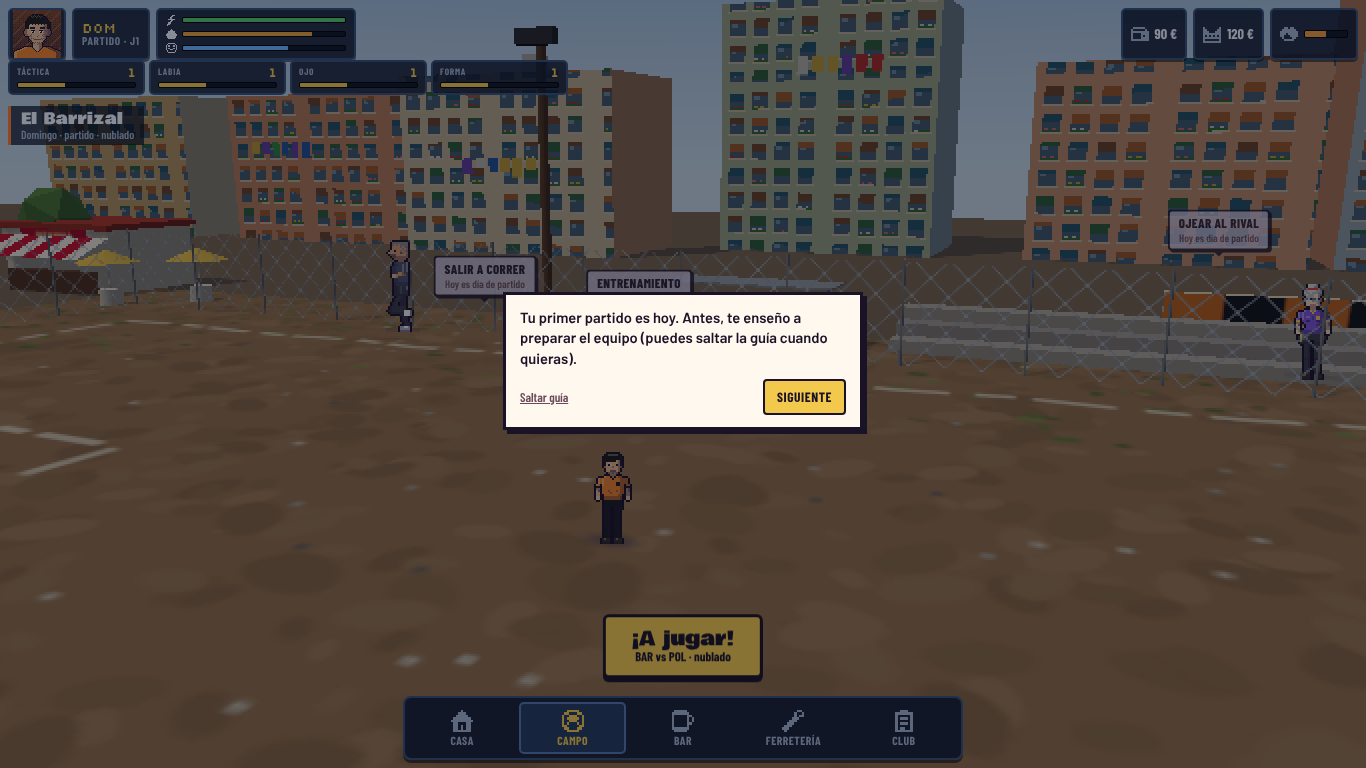
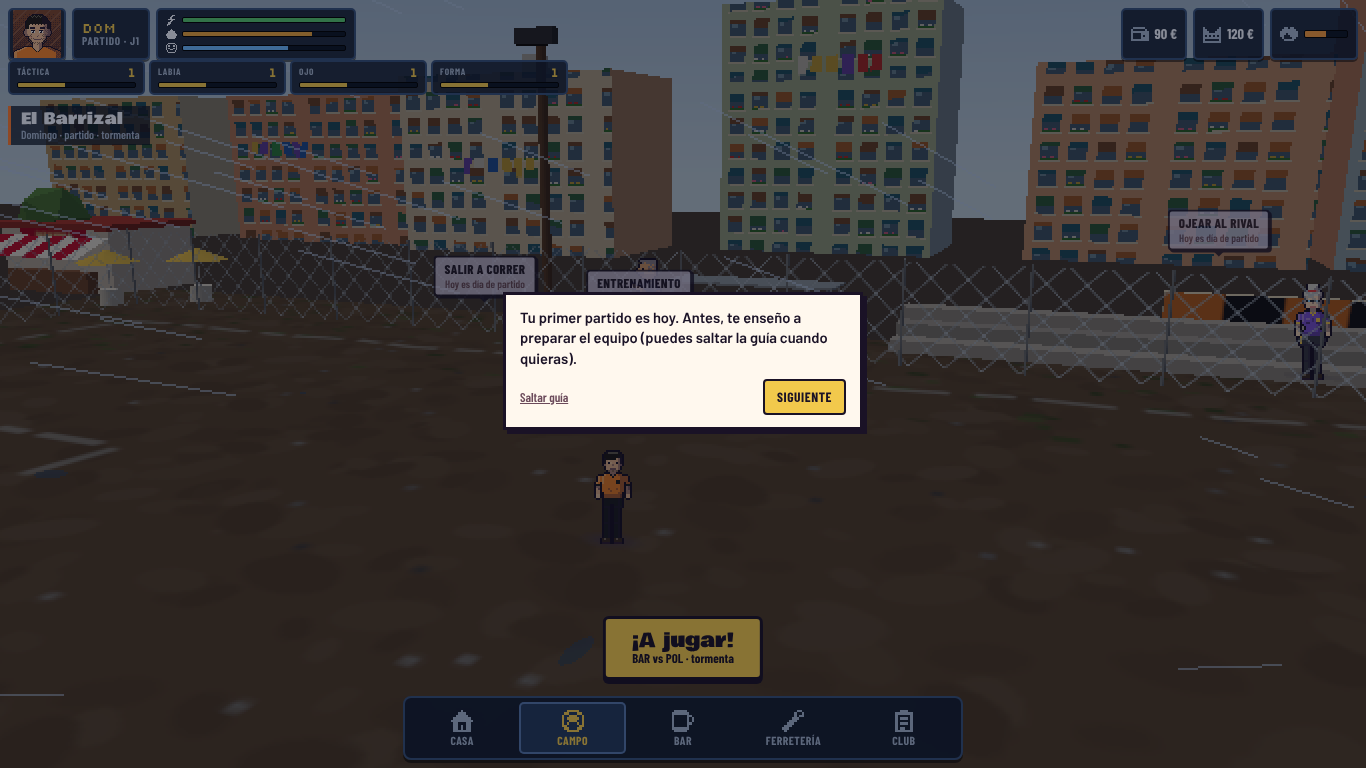
Match: "Final" button to skip straight to the result
A new button in the match bar (skip icon) asks for confirmation. It
then plays the rest of the match without drawing it, with the same
engine, current eleven and current orders. Pending substitutions are
not made. The game then goes straight to the post-match summary. The
first-match hint and the design doc mention it.

Claude-Session: https://claude.ai/code/session_01WRVFSKMmoDi4jX7VEKtsmJ

diff --git a/game/src/ui/match.ts b/game/src/ui/match.ts
@@ -10,7 +10,7 @@ import { FORMATION_NAMES } from '../sim/formations';
 import { MatchSim } from '../sim/match';
 import { TRAITS, traitLabel } from '../sim/traits';
 import type { Block, Command, Formation, Freedom, MatchEventKind, PassStyle, SimPlayer } from '../sim/types';
-import { $, h, nameEl, portrait, type Sheet } from './dom';
+import { $, card, h, nameEl, portrait, type Sheet } from './dom';
 import { Overlay } from './overlay';
 import { drawCrest, iconSvg } from './pixelart';
 
@@ -38,6 +38,8 @@ export class MatchScreen {
   private ownGoals: [number, number] = [0, 0];
   /** Lo que hace cada uno de los tuyos (para su nota). */
   private pstats = new Map<string, PlayerMatchStats>();
+  /** Saltando al resultado (para no hacerlo dos veces). */
+  private skipping = false;
   private slowAt = 0;
   onFinish: ((o: MatchOutcome) => void) | null = null;
 
@@ -94,6 +96,18 @@ export class MatchScreen {
       $('btnPause').setAttribute('aria-pressed', String(this.paused));
     };
     $('btnFt').onclick = () => this.onFinish?.(this.outcome());
+    // saltar al resultado: se juega lo que queda sin dibujarlo (mismo motor, mismo resultado que viéndolo)
+    $('btnSkip').onclick = async () => {
+      if (this.skipping) return;
+      if (this.sim.phase !== 'fulltime') {
+        const i = await card('¿Saltar al resultado?', ['Se juega lo que queda sin verlo, con tu once y tus órdenes de ahora. Los cambios que no hayas hecho, no se hacen.'], { choices: [{ label: 'Ir al resultado' }] });
+        if (i !== 0) return;
+      }
+      this.skipping = true;
+      this.sheet.close();
+      this.fastForward();
+      this.onFinish?.(this.outcome());
+    };
     this.stage.onpointerdown = (ev) => {
       if (this.blocked()) return;
       const r = this.stage.getBoundingClientRect();

diff --git a/game/src/ui/pixelart.ts b/game/src/ui/pixelart.ts
@@ -18,6 +18,7 @@ const ICONS: Record<string, string[]> = {
   megaphone: ['.......#.', '.....###.', '#..#####.', '########.', '########.', '#..#####.', '...#.###.', '...#...#.', '...##....'],
   swap: ['..#......', '.##......', '#######..', '.##......', '..#...#..', '......##.', '..#######', '......##.', '......#..'],
   ff: ['.........', '#...#....', '##..##...', '###.###..', '########.', '###.###..', '##..##...', '#...#....', '.........'],
+  skip: ['.........', '#...#..##', '##..##.##', '###.#####', '#########', '###.#####', '##..##.##', '#...#..##', '.........'],
   camera: ['.........', '.##......', '######.#.', '######.##', '#######.#', '######.##', '######.#.', '.........', '.........'],
   pause: ['.........', '.##..##..', '.##..##..', '.##..##..', '.##..##..', '.##..##..', '.##..##..', '.##..##..', '.........'],
   play: ['.........', '.#.......', '.###.....', '.#####...', '.######..', '.#####...', '.###.....', '.#.......', '.........'],

diff --git a/game/src/main.ts b/game/src/main.ts
@@ -492,7 +492,7 @@ function startMatch() {
   guide.notify({ kind: 'match' });
   if (!c.flags.hintMatch) {
     c.flags.hintMatch = true;
-    guide.showHint('El partido se juega solo, pero tú mandas: «Órdenes» cambia la táctica en vivo y «Cambios» mete a los del banquillo. Toca a un jugador para ver su ficha.', '#btnOrders');
+    guide.showHint('El partido se juega solo, pero tú mandas: «Órdenes» cambia la táctica en vivo y «Cambios» mete a los del banquillo. Toca a un jugador para ver su ficha. Con prisa, «Final» salta al resultado.', '#btnOrders');
     match.paused = true;
     $('btnPause').querySelector('b')!.textContent = 'Seguir';
   }

diff --git a/game/index.html b/game/index.html
@@ -87,6 +87,7 @@
         <button type="button" id="btnSpeed"><span class="dock-ico" data-icon="ff"></span><b id="speedTxt">×1</b></button>
         <button type="button" id="btnCam"><span class="dock-ico" data-icon="camera"></span><b id="camTxt">TV</b></button>
         <button type="button" id="btnPause"><span class="dock-ico" data-icon="pause"></span><b>Pausa</b></button>
+        <button type="button" id="btnSkip" title="Saltar al resultado"><span class="dock-ico" data-icon="skip"></span><b>Final</b></button>
       </nav>
       <div id="fulltime" class="fulltime" hidden>
         <p class="ft-label">Final del partido</p>

diff --git a/docs/diseno/02-el-juego.md b/docs/diseno/02-el-juego.md
@@ -117,7 +117,7 @@ Para añadir una interacción nueva basta con nombrar el mueble y añadir un sit
   - Las etiquetas nunca se pisan entre ellas ni con la barra, el cartel del sitio o el dock: si su sitio está ocupado buscan el hueco más cercano y una línea discontinua las une a su objeto. Primero se colocan las de historia, luego las que se pueden usar y al final las que no.
   - En móvil (estrecho en vertical o bajo en horizontal) son compactas, con el nombre corto («Estudiar», «Bocadillo», «Turno»), y en vertical la habitación se ve un escalón más grande (se recortan un poco sus puntas vacías).
 - **Una hoja** que en móvil sube desde abajo y en PC aparece a la derecha (Club, Míster, resultados).
-- **Partido**: marcador arriba; abajo, cuatro botones (órdenes, cambios, velocidad, pausa). En PC, panel lateral fijo con órdenes y plantilla.
+- **Partido**: marcador arriba; abajo, los botones: órdenes, cambios, velocidad, cámara, pausa y «Final» (salta al resultado: se juega lo que queda sin dibujarlo, con el mismo motor, y se va directo al resumen; pide confirmación). En PC, panel lateral fijo con órdenes y plantilla.
 - Guardado automático en el navegador al final de cada acción.
 
 ## 8. Estreno y primera semana guiada
